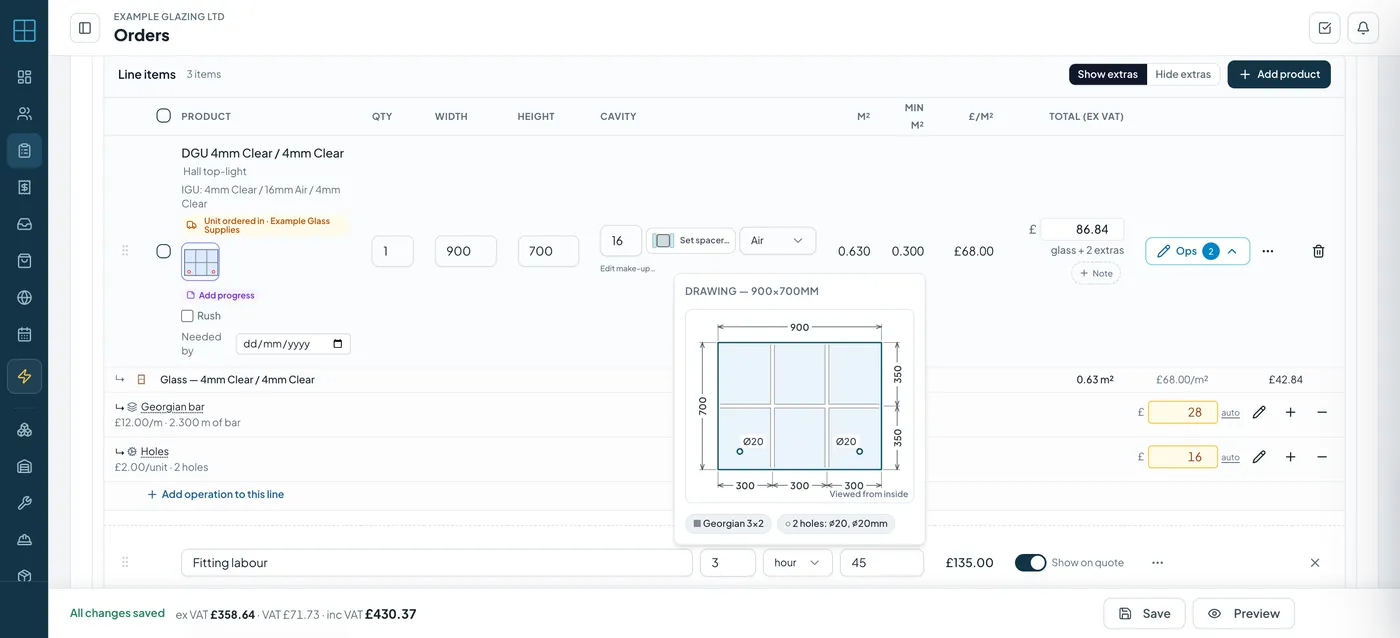
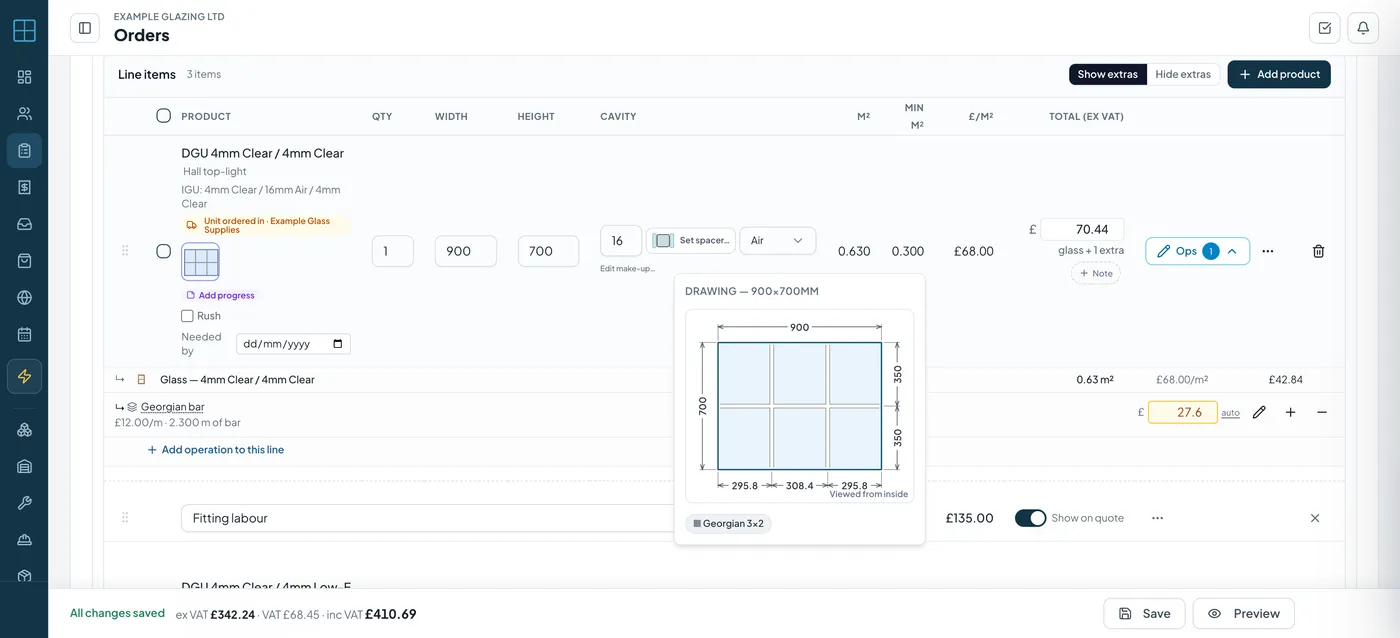
Recapture 0101 (Georgian only, new totals), blur quote QR/link, add mirror + diamond-lead shots
- bench-drawing.webp: order 0101 work bench, Georgian 3×2 drawing beside the line.
- quote-pdf.webp / invoice-pdf.webp: 0101 / INV-0042 at £342.24 + £68.45 = £410.69;
  the quote's public link and QR code are blurred.
- NEW mirror-holes.webp: 6mm Silver Mirror 900×600, 4 × Ø10 holes 50 mm in, fully
  dimensioned (operations editor, order 0122).
- NEW diamond-lead.webp: 600×900 DGU with diamond lead, 100×140 mm diamonds,
  6 mm self-colour came (operations editor, order 0123).
- FEATURE_GALLERY: shows both on Glass specs and the diamond lead on Sealed units,
  under "How it works".

diff --git a/coglass-feature-glass-specs.html b/coglass-feature-glass-specs.html
@@ -65,6 +65,7 @@
   <div class="wrap">
     <div class="sect-head"><span class="kicker">How it works</span><h2>From window on site to glass on the bench</h2><p>Coglass holds the full make-up of every pane, so the right glass gets cut, sealed and fitted — first time.</p></div>
     <ol class="steps"><li><h3>Choose the make-up</h3><p>Pick single glazed, DGU or TGU and Coglass captures the full build — the glass type for each leaf, cavity, spacer and gas.</p></li><li><h3>Set size &amp; shape</h3><p>Width × height in mm, quantity, and any shape — rectangle, arch, circle, oval, gable, trapezoid. Stored to the millimetre — no unit conversion, no product-dropdown guesswork.</p></li><li><h3>Add edgework &amp; processing</h3><p>Add edge-finishing and glass-processing operations to any pane — each priced as its own operation alongside the glass.</p></li><li><h3>Draw the features on the pane</h3><p>Open the drawing canvas and place holes, cut-outs, Georgian bars, lead and diamond lattices right on the glass — sized off the edges in mm.</p></li><li><h3>Price it automatically</h3><p>Coglass prices the glass per m² or per unit from your catalogue, plus every operation — with trade price-lists and quantity breaks applied.</p></li><li><h3>Print the 1:1 template</h3><p>Send the lead, Georgian and diamond patterns to a full-size tiled A4 “lay-under” template — the factory lays the glass straight onto it and copies the pattern.</p></li></ol>
+    <div class="docs" style="margin-top:36px"><figure style="margin:0"><div class="doc"><img src="/assets/img/mirror-holes.webp" alt="The drawing editor for a 6mm silver mirror, 900 × 600 mm, with four Ø10 mm holes each set 50 mm in from the corners and every dimension shown" width="1200" height="836" loading="lazy" decoding="async"></div><figcaption class="cap">Holes are placed off the edges in mm — every hole shows its size and where it sits.</figcaption></figure><figure style="margin:0"><div class="doc"><img src="/assets/img/diamond-lead.webp" alt="The drawing editor for a 600 × 900 mm double-glazed unit with diamond lead: 100 × 140 mm diamonds and 6 mm self-colour came" width="1200" height="1232" loading="lazy" decoding="async"></div><figcaption class="cap">Diamond lead: set the diamond size and came width, and drag the first full diamond into place.</figcaption></figure></div>
   </div>
 </section>
 <section class="sect alt">

diff --git a/coglass-for-sealed-units.html b/coglass-for-sealed-units.html
@@ -65,6 +65,7 @@
   <div class="wrap">
     <div class="sect-head"><span class="kicker">How it works</span><h2>From unit order to loaded rack</h2><p>Coglass runs the commercial and production side of a sealed unit business, on one system.</p></div>
     <ol class="steps"><li><h3>Take the unit order</h3><p>Trade customers order by make-up and size — at the counter or by email, and soon on a branded webshop where they reorder on their agreed prices. Quick Go builds a unit order in seconds.</p></li><li><h3>Spec the make-up</h3><p>Full DGU/TGU build: the glass for each leaf (clear, toughened, laminated, low-E, obscure), cavity width, spacer bar and gas — captured per line, never baked into the product, so you avoid a 12/16/20mm variant of every unit.</p></li><li><h3>Price it on trade terms</h3><p>Per-unit and per-m² pricing with trade price-lists, quantity breaks and per-customer accounts. The right price applies automatically — no retyping rate cards.</p></li><li><h3>Into production</h3><p>Every unit order lands on the production board and moves from cut to ready, with barcode labels per piece. Cut and process in-house, or buy in toughened / laminated leaves as outwork.</p></li><li><h3>Onto the rack &amp; out</h3><p>Collection with a signature at the counter, or delivery runs planned on the board, with the route on a map for finished units — units go out on stillages, not vans full of fitters.</p></li><li><h3>Get paid</h3><p>Deposits, proformas, VAT or GST and account invoicing, synced to Xero, with overdue invoices flagged automatically.</p></li></ol>
+    <div class="docs" style="grid-template-columns:1fr;max-width:640px;margin:36px auto 0"><figure style="margin:0"><div class="doc"><img src="/assets/img/diamond-lead.webp" alt="The drawing editor for a 600 × 900 mm double-glazed unit with diamond lead: 100 × 140 mm diamonds and 6 mm self-colour came" width="1200" height="1232" loading="lazy" decoding="async"></div><figcaption class="cap">A leaded sealed unit drawn on the line — diamond size, came width and finish, ready for the workshop.</figcaption></figure></div>
   </div>
 </section>
 <section class="sect alt">

diff --git a/_src/build.py b/_src/build.py
@@ -237,8 +237,36 @@ IMG = {
     'quote': ('/assets/img/quote-pdf.webp', 'A quotation PDF with the unit drawn on its line and a link to accept it online', 1200, 1140),
     'invoice': ('/assets/img/invoice-pdf.webp', 'The matching invoice PDF for the same job, with an amount on every line, totals and balance due', 1200, 857),
     'ipad-planner': ('/assets/img/ipad-planner.webp', 'The Coglass planner open in a browser at iPad size: a week of fittings, surveys and a delivery across three teams', 1600, 1112),
+    'mirror': ('/assets/img/mirror-holes.webp', 'The drawing editor for a 6mm silver mirror, 900 × 600 mm, with four Ø10 mm holes each set 50 mm in from the corners and every dimension shown', 1200, 836),
+    'diamond': ('/assets/img/diamond-lead.webp', 'The drawing editor for a 600 × 900 mm double-glazed unit with diamond lead: 100 × 140 mm diamonds and 6 mm self-colour came', 1200, 1232),
     'tracking': ('/assets/img/tracking-page.webp', 'A customer tracking page on a phone: the booked fitting day and time, and buttons to message the office or the fitter', 600, 1077),
 }
+
+# Extra real screenshots shown under "How it works" on a feature page: (IMG key, caption).
+FEATURE_GALLERY = {
+    'coglass-feature-glass-specs': [
+        ('mirror', 'Holes are placed off the edges in mm — every hole shows its size and where it sits.'),
+        ('diamond', 'Diamond lead: set the diamond size and came width, and drag the first full diamond into place.'),
+    ],
+    'coglass-for-sealed-units': [
+        ('diamond', 'A leaded sealed unit drawn on the line — diamond size, came width and finish, ready for the workshop.'),
+    ],
+}
+
+
+def gallery_html(slug):
+    items = FEATURE_GALLERY.get(slug)
+    if not items:
+        return ''
+    figs = ''
+    for key, cap in items:
+        src, alt, w, h = IMG[key]
+        figs += (f'<figure style="margin:0"><div class="doc"><img src="{src}" alt="{e(alt)}" width="{w}" height="{h}" '
+                 f'loading="lazy" decoding="async"></div><figcaption class="cap">{e(cap)}</figcaption></figure>')
+    if len(items) > 1:
+        return f'\n    <div class="docs" style="margin-top:36px">{figs}</div>'
+    return f'\n    <div class="docs" style="grid-template-columns:1fr;max-width:640px;margin:36px auto 0">{figs}</div>'
+
 
 FEATURE_VISUAL = {
     'coglass-feature-orders': ('img', 'orders'),
@@ -401,7 +429,7 @@ def feature_page(slug, d):
 <section class="sect">
   <div class="wrap">
     <div class="sect-head"><span class="kicker">{e(d['steps_label'])}</span><h2>{e(d['steps_h2'])}</h2><p>{e(d['steps_sub'])}</p></div>
-    <ol class="steps">{steps}</ol>
+    <ol class="steps">{steps}</ol>{gallery_html(slug)}
   </div>
 </section>
 <section class="sect alt">
